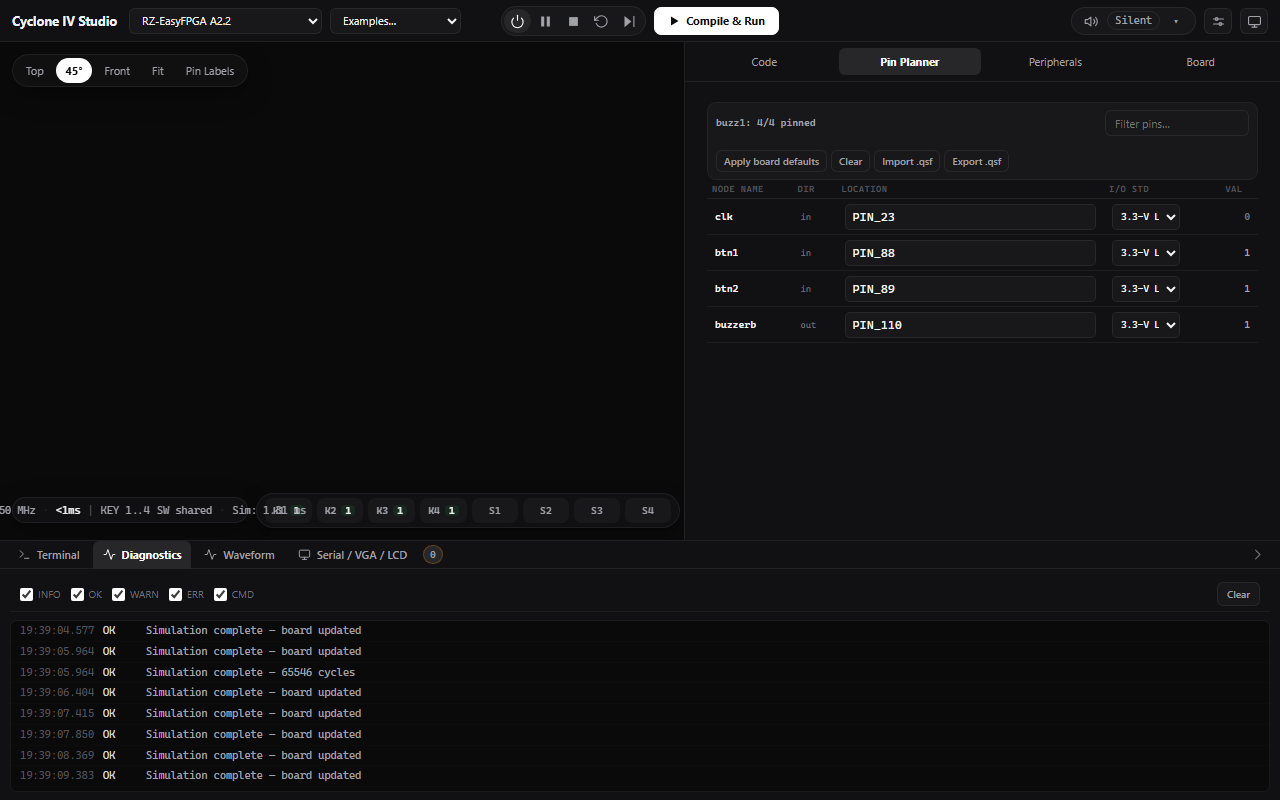
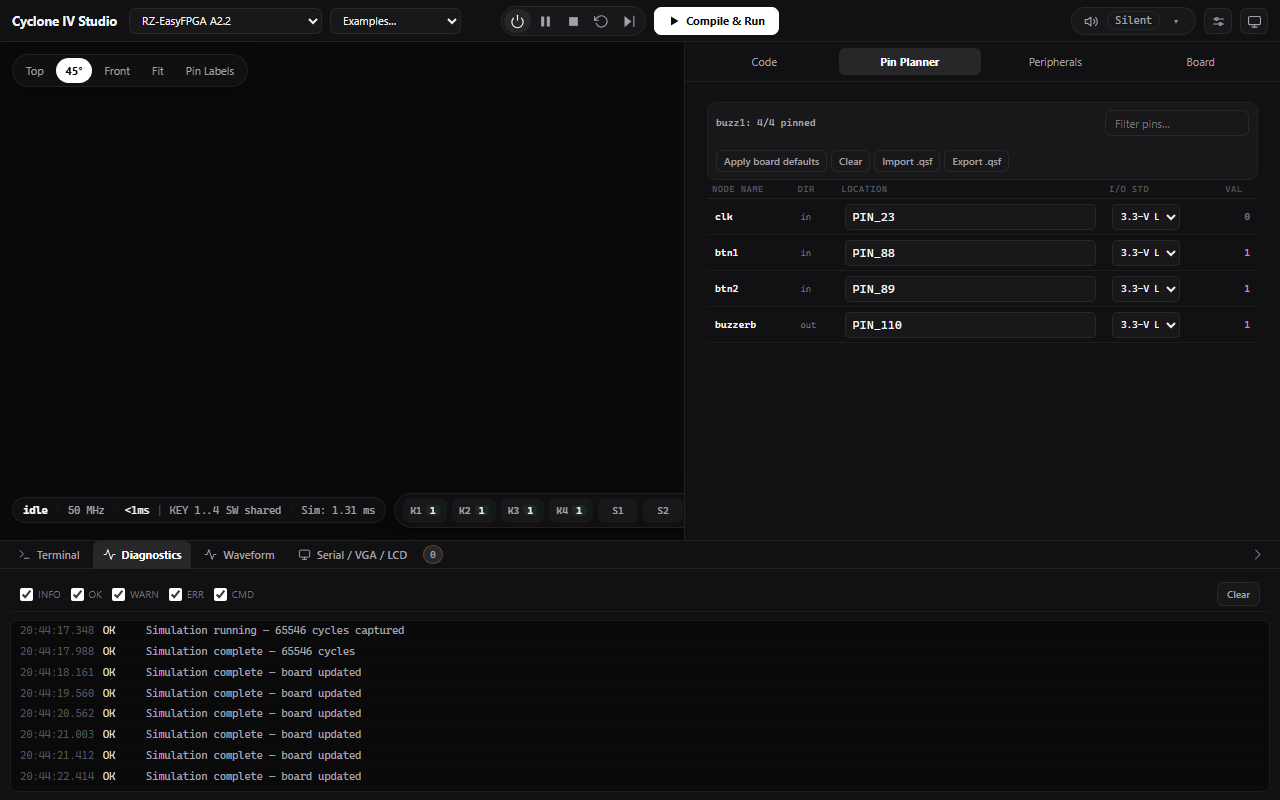
docs: refresh evidence — all suites green, six visual defects fixed
Re-captured every screenshot on the final bundle:
- solid #0a0a0b viewport, zero dust speckles, deep charcoal PCB
- single-row 36px HUD (status | K1..K4 | S1..S4), no FPS readout
- vivid red 7-segment digits (sevseg-4tube-key1, studio-sevseg)
- visible cyan SP1 pulse ring (hold-800hz / sp1-ring close-ups)
- board fully framed after workbench resize (no left clipping)
- no duplicate Compile button / Messages drawer; compile summary +
  messages live in the Diagnostics dock (buzz1-diagnostics.png)
- README evidence table updated (messages-expanded -> diagnostics)
Gates: 169 units + 231/231 QA, 43/43 vitest, 8/8 E2E suites PASS.

diff --git a/tests/RESULTS.md b/tests/RESULTS.md
@@ -1,10 +1,10 @@
 # QA results
 
-Generated: 2026-11-18 18:22:33
+Generated: 2026-11-18 19:52:10
 GHDL: GHDL 6.0.0 (6.0.0.r0.ge589c698c.dirty) [Dunoon edition]
-Wall time: 65.3s
+Wall time: 140.8s
 Jobs: 8
-Cache: 6 hits, 131 misses, 29 fallbacks
+Cache: 5 hits, 134 misses, 27 fallbacks
 Units: 169 passed (pytest tests/)
 Total: 231  PASS: 231  FAIL: 0
 
@@ -20,10 +20,10 @@ Total: 231  PASS: 231  FAIL: 0
 | IN-05B | QSF pin/top/IO-standard/file-list parsing is complete | QSF | TOP_LEVEL_ENTITY, 8 pin assignments, IO_STANDARD and file list all visible in the result | top, 8 pins, IO_STANDARD and file list parsed from the vendor .qsf | PASS |
 | IN-05C | QSF errors: invalid pin, duplicate pin, unknown port, wrong device | QSF | Each problem produces a specific error naming the pin/port; the simulation does not start | 4 specific errors: invalid pin, duplicate pin, unknown port, wrong device | PASS |
 | IN-08 | QSF pin assignments are validated against the top-level ports | QSF | A pin assigned to a port that exists is honoured; the missing-pin warning stays quiet for those ports | no unpinned-port warnings for ports the .qsf assigns | PASS |
-| IN-09 | VHDL syntax error reports file and line | VHDL | GHDL diagnostic with line number, no crash | ?:3: Expected ':' in interface declaration \| ?:1: Unexpected end of file inside entity declaration \| C:\Users\rober\AppData\Local\Temp\cyclone_compile_i3i9rhrs\design.vhd:3: interface declaration expected \| C:\Users\rob… | PASS |
+| IN-09 | VHDL syntax error reports file and line | VHDL | GHDL diagnostic with line number, no crash | ?:3: Expected ':' in interface declaration \| ?:1: Unexpected end of file inside entity declaration \| C:\Users\rober\AppData\Local\Temp\cyclone_compile_z9f473k_\design.vhd:3: interface declaration expected \| C:\Users\rob… | PASS |
 | IN-10 | Verilog syntax error reports file and line | Verilog | Diagnostic with line number naming the missing endmodule | design.vhd:1: Missing 'endmodule' for module 'broken' | PASS |
-| IN-11 | Unsupported Altera primitive gives a clear error | VHDL | Error names the unbound Altera megafunction (altsyncram/lpm_*) | c:\users\rober\appdata\local\temp\cyclone_qa_worker_i6zfjip2\cache\sources\808d390967d0ab9a1d8f6d856588a42a78caaae3120b0961b12d84f4c645aec6\design.vhd:84: instance "u_ram" of component "altsyncram" is not bound \| c:\use… | PASS |
-| IN-12 | Mixed-language project (VHDL top + Verilog submodule) | VHDL+Verilog | Malformed mixed input is rejected with a file:line diagnostic (split .vhd/.v files) | C:\Users\rober\AppData\Local\Temp\cyclone_qa_worker_ysi9v49q\cache\sources\b1aac9a420d6a61c62ee606fbc0caae8841a1dadadafa0d7713cb5d231bd67d9\design.vhd:11: missing entity, architecture, package or configuration \| C:\User… | PASS |
+| IN-11 | Unsupported Altera primitive gives a clear error | VHDL | Error names the unbound Altera megafunction (altsyncram/lpm_*) | c:\users\rober\appdata\local\temp\cyclone_qa_worker_x_ozwfb5\cache\sources\808d390967d0ab9a1d8f6d856588a42a78caaae3120b0961b12d84f4c645aec6\design.vhd:84: instance "u_ram" of component "altsyncram" is not bound \| c:\use… | PASS |
+| IN-12 | Mixed-language project (VHDL top + Verilog submodule) | VHDL+Verilog | Malformed mixed input is rejected with a file:line diagnostic (split .vhd/.v files) | C:\Users\rober\AppData\Local\Temp\cyclone_qa_worker_lm8up0fr\cache\sources\b1aac9a420d6a61c62ee606fbc0caae8841a1dadadafa0d7713cb5d231bd67d9\design.vhd:11: missing entity, architecture, package or configuration \| C:\User… | PASS |
 | CLK-01 | Board clock frequency and pin are modelled | VHDL | CLOCK_50 = 50 MHz on pin PIN_23; the result reports the board frequency | CLOCK_50 = 50 MHz on PIN_23 | PASS |
 | CLK-02 | Counter at the real clock rate matches expected count after N ms | VHDL | 100 ns at 10 ns period, reset 2 cycles -> count = 8 | count=8 after 100 ns | PASS |
 | CLK-03 | Clock scaling makes a 1 Hz blinker visible in real time | VHDL | Scale factor reported; 1 Hz blinker toggles once per simulated second at 50 MHz | scale={'boardClockHz': 50000000, 'simClockHz': 100000000, 'scale': 2.0, 'note': 'simClockHz is the simulated clock rate; a design cycles the same number of clock ticks per simulated second as on the board, so wall-clock… | PASS |
@@ -102,8 +102,8 @@ Total: 231  PASS: 231  FAIL: 0
 | ENG-01 | Raw VCD export works from the CLI/keep-dir path | VHDL | VCD file is produced and matches the final LED value | VCD wave.vcd (1277 bytes) | PASS |
 | ENG-01B | Waveform export button/endpoint in the web UI | UI | A UI action downloads VCD/FST | Export VCD control present (frontend/src) | PASS |
 | ENG-02 | Waveform matches board state at the same timestamp | VHDL | Cycle samples and final state agree with LED/switch values | all 10 cycles agree (key_edge, 1 press) | PASS |
-| ENG-03 | Stop/cancel a running simulation | UI | sim_stop kills the server-side GHDL run and emits sim_stopped within 10 s (the uncanceled long_run fixture needs minutes of wall time) | sim_stopped after 0.01 s; whole cycle 4.1 s (uncanceled run: minutes) | PASS |
-| ENG-03B | Stop is a kill, not a wait: GHDL child exits promptly | API | Simulator.cancel() ends a minutes-long run within ~5 s | worker exited 0.0 s after cancel (killed=True) | PASS |
+| ENG-03 | Stop/cancel a running simulation | UI | sim_stop kills the server-side GHDL run and emits sim_stopped within 10 s (the uncanceled long_run fixture needs minutes of wall time) | sim_stopped after 0.03 s; whole cycle 4.5 s (uncanceled run: minutes) | PASS |
+| ENG-03B | Stop is a kill, not a wait: GHDL child exits promptly | API | Simulator.cancel() ends a minutes-long run within ~5 s | worker exited 0.1 s after cancel (killed=True) | PASS |
 | ENG-04 | Re-upload during a running sim leaves no stale state | VHDL | A second upload starts from a fresh temp directory | 0xFF then 0x00, no stale state | PASS |
 | ENG-11 | Server health reports GHDL | API | GET /api/health -> ok | GHDL 6.0.0 (6.0.0.r0.ge589c698c.dirty) [Dunoon edition] | PASS |
 | ENG-12 | Concurrent HTTP simulations are isolated | API | Two different designs run at the same time without interference | not-gate=0, buffer=1 concurrently | PASS |
@@ -134,7 +134,7 @@ Total: 231  PASS: 231  FAIL: 0
 | SPEC-11 | Device profile: 91 user I/O, both trainer chips selectable | infra | EP4CE6E22C8N and EP4CE10E22C8N both report 91 user I/O and the handbook resources | 91 user I/O on both variants; resources match the handbook | PASS |
 | SPEC-12 | Every pin in vendor/Pinos_RZEasyFPGA.txt matches the profile | infra | clock/reset/keys/LED/SEG/DIG/SDRAM/VGA/PS2/UART/I2C/IR/buzzer/LCD pins all agree | all 86 vendor pins match the simulator profile | PASS |
 | BJ-01 | board.json pinMap matches every vendor pin assignment | infra | all 86 vendor pins present with the same PIN numbers | 86 vendor pins match board.json | PASS |
-| BJ-02 | Every fact in board.json carries VERIFIED/INFERRED/UNVERIFIED | infra | 34 facts, all tagged, no empty sources | 39 facts tagged: {'UNVERIFIED': 5, 'INFERRED': 1, 'VERIFIED': 33} | PASS |
+| BJ-02 | Every fact in board.json carries VERIFIED/INFERRED/UNVERIFIED | infra | 34 facts, all tagged, no empty sources | 39 facts tagged: {'VERIFIED': 33, 'INFERRED': 1, 'UNVERIFIED': 5} | PASS |
 | BJ-03 | No hard-coded pin numbers in backend or frontend runtime code | infra | zero PIN_<number> literals outside board.json, specs and tests | scanned 22 runtime files, no PIN_<n> literals | PASS |
 | BJ-04 | Backend profile is loaded from board.json (not duplicated) | infra | BOARD pins, SEG map, I2C addresses and SDRAM DQ equal board.json | backend BOARD/DEVICE mirror board.json | PASS |
 | BJ-05 | All board.json pins are valid EQFP-144 and uniquely owned | infra | every pin in 1..144; only KEY/DIP share pins 88-91 by design | 90 pin entries; only KEY/DIP share nets | PASS |
@@ -169,9 +169,9 @@ Total: 231  PASS: 231  FAIL: 0
 | PR-10 | UART echo at the wrong baud: receiver rejects the frame, TX stays idle | VHDL | a 0x5A frame at 10x the bit time (11.52 kbaud into a 115.2 kbaud receiver) is never echoed: decode_uart(TXD) reports no bytes/no frames; ECHO_COUNT=0; FRM_ERR=4 (one framing error per low region of the foreign-baud stream) | wrong baud -> no echo (TXD idle, 0 bytes decoded); ECHO_COUNT=0, FRM_ERR=4 | PASS |
 | PR-11 | EEPROM reference design (i2c_eeprom_test) runs its full I2C sequence vs the model | VHDL | master clocks the whole write+read sequence without hanging (65 SCL falling edges: write 28 + read 37); WP tied to VCC (board.json writeProtected) blocks the 0x5A write so the readback low nibble is 0 -> LED=0xF; model dump: size=1024, every cell still 00 | I2C master sequence clean (65 SCL falls, no hang); write blocked by WP (readback 0x00 -> LED=0xF); dump size=1024, first 256 bytes all 00 | PASS |
 | RB-01 | VHDL parser survives random binary garbage | fuzz | 200 random inputs: no exception, no hang | 200 random inputs parsed without an exception | PASS |
-| RB-02 | QSF parser survives garbage and a 1 MB file | fuzz | random garbage + 1 MB input: no exception, bounded time | garbage + 1 MB qsf parsed without an exception (0.03s) | PASS |
+| RB-02 | QSF parser survives garbage and a 1 MB file | fuzz | random garbage + 1 MB input: no exception, bounded time | garbage + 1 MB qsf parsed without an exception (0.07s) | PASS |
 | RB-03 | WebSocket survives malformed and unknown messages | WS | invalid JSON -> error; unknown type -> error; ping -> pong; connection stays open | malformed/unknown WS messages rejected; connection stayed open | PASS |
-| RB-04 | A huge VHDL file (5k lines) compiles without unbounded memory | VHDL | compile succeeds in bounded time | 5k-line VHDL compiled in 0.21s | PASS |
+| RB-04 | A huge VHDL file (5k lines) compiles without unbounded memory | VHDL | compile succeeds in bounded time | 5k-line VHDL compiled in 0.37s | PASS |
 | RB-05 | HDL textio with literal absolute host paths is rejected | VHDL | the pre-scan rejects the design with a clear error; no host file is written | absolute textio read+write rejected before GHDL (clear error, no host file written) | PASS |
 | RB-05B | Relative textio stays confined to the workdir and works | VHDL | a design that writes out.txt (relative) and reads it back passes end-to-end | relative textio write+read round-trips inside the throw-away workdir | PASS |
 | RB-06 | Concurrent simulations are isolated | VHDL | two designs run at once; each result matches its own design | two concurrent simulations isolated (not=0, buffer=1) | PASS |
@@ -183,7 +183,7 @@ Total: 231  PASS: 231  FAIL: 0
 | SEM-01 | Delta-cycle ordering: signal updates land on later edges | VHDL | a registered chain a->b->c: at edge 1 only a is new; b/c follow on later edges | signal updates propagate one edge per register: c lags a by two edges (seen=100) | PASS |
 | SEM-02 | Variable updates are immediate; signal updates are deferred | VHDL | q_var shows the new input one edge earlier than q_sig | q_var toggles immediately, q_sig one edge behind (16 vs 15 transitions) | PASS |
 | SEM-03 | std_logic resolution: 0/1/Z/X/U/H/L/- table | VHDL | 0&Z=0, 1&H=1, H alone=H, L&0=0, 0&1=X, undriven=U (RESULT bit i set per rule) | 0&Z=0, 1&H=1, H=H, L&0=0, 0&1=X, undriven=U — all six rules observed | PASS |
-| SEM-04 | Multiple drivers on an unresolved type are a clear error | VHDL | two processes drive one integer signal -> GHDL 'multiple drivers' error, no silent result | rejected with: C:\Users\rober\AppData\Local\Temp\cyclone_sim_t7kl88n4\design.vhd:8: too many drivers for signal "comm" | PASS |
+| SEM-04 | Multiple drivers on an unresolved type are a clear error | VHDL | two processes drive one integer signal -> GHDL 'multiple drivers' error, no silent result | rejected with: C:\Users\rober\AppData\Local\Temp\cyclone_qa_worker_x_ozwfb5\cache\sources\365eb77faf36c19e748cd8843c1bde6d88b9b5e29dc3e | PASS |
 | SEM-05 | numeric_std overflow wraps (mod 2^n) | VHDL | unsigned 255+1 -> 0; signed 127+1 -> -128 (10000000) | unsigned 0xFF+1 -> 0x00; signed 0x7F+1 -> 0x80 (two's-complement wrap) | PASS |
 | SEM-06 | Generics change width and behaviour | VHDL | WIDTH=12 counter wraps at 4095; WIDTH=4 wraps at 15 | WIDTH=4 -> q=10 (max 15); WIDTH=12 -> q=10 (max 4095); same stimulus | PASS |
 | SEM-07 | Generate loop instantiates N parallel slices | VHDL | 8 independent inverter slices; changing one input bit changes exactly that output bit | 8 slices generated; d=0x05 -> 11111010, d=0x01 -> 11111110 (only the toggled bit changed) | PASS |
@@ -220,13 +220,13 @@ Total: 231  PASS: 231  FAIL: 0
 | TSC-05 | 7-segment scan rate scales with the clock period | VHDL | the digit-select toggle period doubles when the clock period doubles | 7-seg digit toggle 20.0 ns at 10 ns clock vs 40.0 ns at 20 ns (ratio 2.00) | PASS |
 | DET-01 | The same request twice produces identical waveforms | VHDL | two identical simulations: identical signal transitions, cycles and final state | identical waveforms over 30 cycles (cache hit on the repeat) | PASS |
 | DET-02 | Two Simulator instances share no state | VHDL | a cached and an uncached Simulator return identical, independent results | cached and uncached Simulators agree; instance reuse does not leak state | PASS |
-| DET-03 | Runs leave no stale temp directories or zombie GHDL processes | infra | temp dir count and ghdl.exe process count return to baseline after simulations | 3 runs: temp dirs 26->24, ghdl processes 3->1 (no zombies, no stale dirs) | PASS |
+| DET-03 | Runs leave no stale temp directories or zombie GHDL processes | infra | temp dir count and ghdl.exe process count return to baseline after simulations | 3 runs: temp dirs 26->26, ghdl processes 1->1 (no zombies, no stale dirs) | PASS |
 | RF-01 | Malformed VHDL is rejected with a clear error, never a crash | VHDL | truncated/garbled VHDL -> ok=False with a diagnostic; the server stays usable | 5 malformed sources rejected with diagnostics; backend still healthy | PASS |
 | RF-02 | Random binary garbage is handled without a crash | fuzz | 300 random byte strings through simulate/compile: no exception, no hang | 300 random garbage inputs handled without an exception | PASS |
-| RF-03 | An oversized upload is handled in bounded time and memory | VHDL | a 2 MB design (valid but huge) compiles without unbounded memory or a hang | 1903 KiB upload compiled in 0.9s | PASS |
+| RF-03 | An oversized upload is handled in bounded time and memory | VHDL | a 2 MB design (valid but huge) compiles without unbounded memory or a hang | 1903 KiB upload compiled in 6.9s | PASS |
 | RF-04 | Empty and whitespace-only inputs give a clear error | VHDL | empty source -> 'no entity' style error, not a crash or a silent pass | empty inputs rejected with a clear no-entity error | PASS |
 | RF-05 | WebSocket survives hostile message shapes | WS | arrays, strings, numbers, deep nesting and huge payloads all get error replies; the socket stays open | 10 hostile WS messages answered with errors; connection stayed open | PASS |
-| RF-06 | A runaway design hits the scaled GHDL timeout with a clear message | VHDL | with GHDL_TIMEOUT=3 the infinite-loop design fails with 'timed out after 3 s' and a runaway hint | runaway design stopped by the scaled timeout in 3.2s: ghdl:0: GHDL timed out after 3 s of wall time — possible runaway design (an infinite loop without a wait statement?) or | PASS |
+| RF-06 | A runaway design hits the scaled GHDL timeout with a clear message | VHDL | with GHDL_TIMEOUT=3 the infinite-loop design fails with 'timed out after 3 s' and a runaway hint | runaway design stopped by the scaled timeout in 4.9s: ghdl:0: GHDL timed out after 3 s of wall time — possible runaway design (an infinite loop without a wait statement?) or | PASS |
 | RF-07 | Sandbox reality: literal absolute textio paths are rejected; runs stay isolated | VHDL | the pre-scan rejects the design with a clear error, the host file is never read and no temp dir is left behind | Honest statement: the absolute-path design is rejected before GHDL runs (no host read); per-run isolation comes from throw-away tempdirs, and this run left none behind | PASS |
 | DIF-01 | Differential: counter - backend vs raw GHDL VCD | VHDL | every port's transition list is identical between the backend waveform and an independent raw GHDL run | counter: 3 ports identical between backend.simulate() and raw GHDL VCD | PASS |
 | DIF-02 | Differential: FSM (Moore traffic light) - backend vs raw GHDL VCD | VHDL | every port's transition list is identical between the backend waveform and an independent raw GHDL run | traffic_moore: 5 ports identical between backend.simulate() and raw GHDL VCD | PASS |

diff --git a/docs/evidence/README.md b/docs/evidence/README.md
@@ -42,7 +42,7 @@ cd .. && python tests/run_all.py
 | `buzz1.qsf` | exported Quartus `.qsf` (4 assignments) |
 | `buzz1-sidebar-resized.png` | drag handle: 420 → 530 px, canvas reflows |
 | `buzz1-sidebar-collapsed.png` / `-expanded.png` | collapse/expand |
-| `buzz1-messages-expanded.png` | Messages panel (collapsible; see log) |
+| `buzz1-diagnostics.png` | compile messages live in the bottom dock's **Diagnostics** tab (single home; the old workbench Messages drawer is gone) |
 | `sevseg-keys-open.png` | all keys open → display dark |
 | `sevseg-display.png` | all DIP closed → **4 tubes integrate via POV** |
 | `sevseg-pinplan.png` | s1..s4 / dtube / seven_seg pin defaults |
